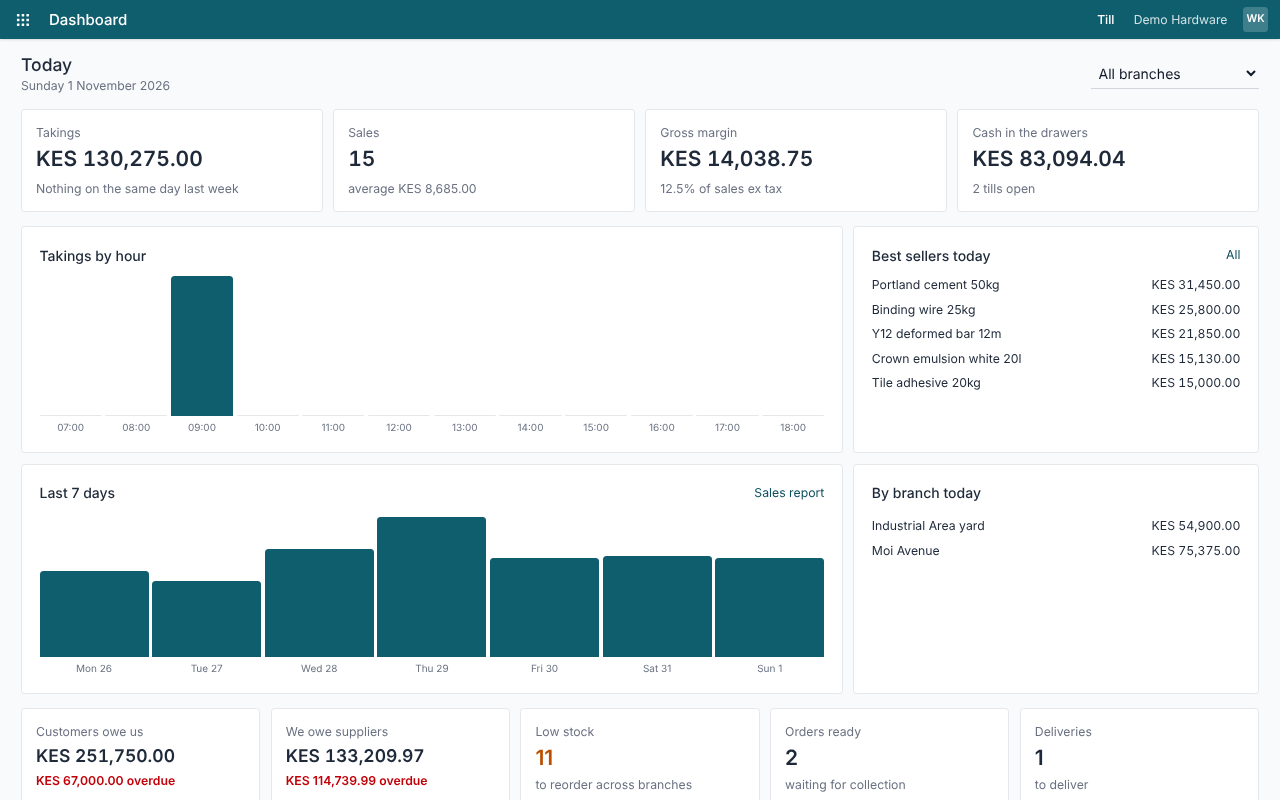
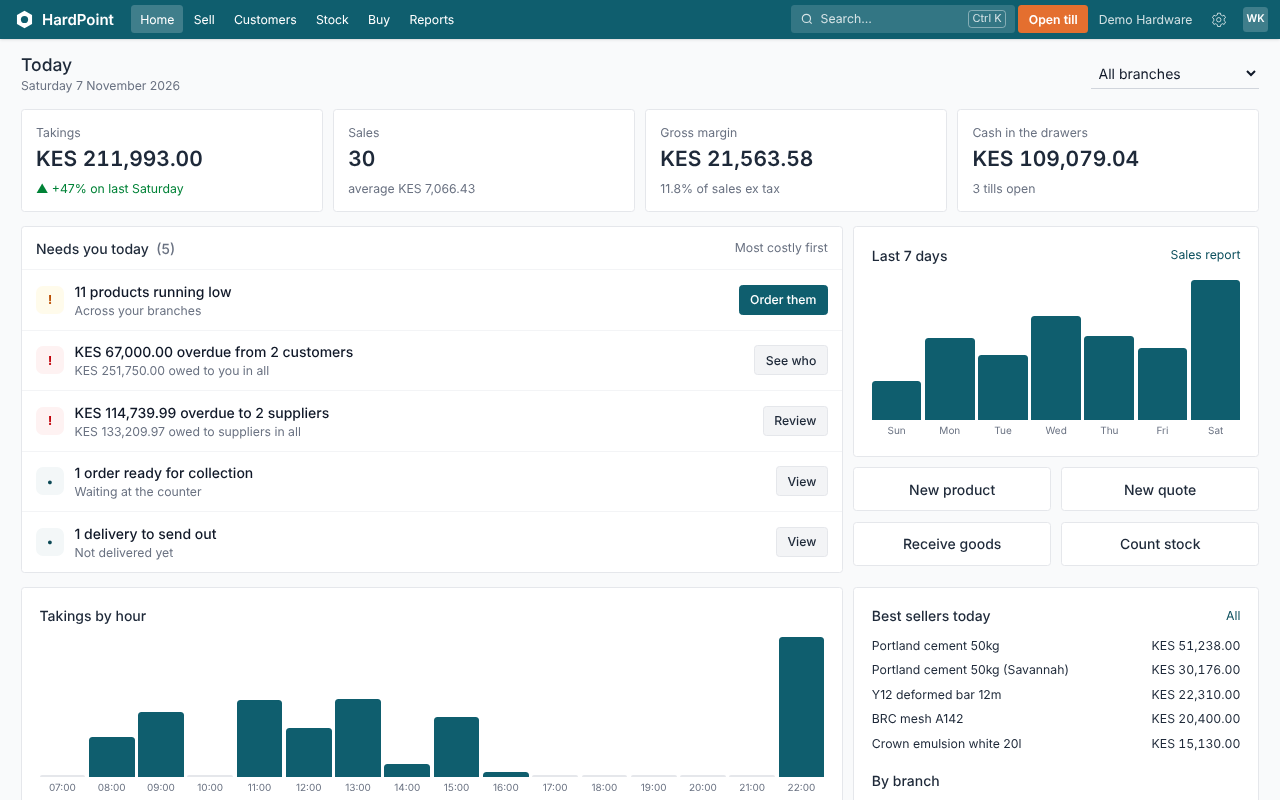
Homepage brought up to date with what HardPoint does now
- What's included: twelve areas instead of eight, adding touch screens and phones, Airtel Money and
  card, shifts and cash, contractors and deliveries, the online store, and promotions, WhatsApp,
  labels, the phone stock app and the QuickBooks export within the others.
- Getting started follows the Set up your shop checklist, and points to guided tours and help.
- Fresh screenshots from the demo shop: the current owner's home (Needs you today) and the till
  asking how many on a tap.
- The trial length comes from Plan::TRIAL rather than being typed in, and plan cards mention
  Airtel Money.
- The help screenshot script confirms the new quantity popup when it fills the till's sale.
- docs/USER_GUIDE.md regenerated for the till tour's new wording.

Claude-Session: https://claude.ai/code/session_012fzfKk8W1bRzqvAso3EDTP

diff --git a/docs/USER_GUIDE.md b/docs/USER_GUIDE.md
@@ -343,7 +343,7 @@ The till is a full-screen page made for a barcode scanner and a busy counter. Op
 
 1. **Scan or search.** Scan a barcode and it's in the sale. No scanner? Type a few letters of the name or SKU and press the product. F2 brings you back here.
 2. **Browse by category.** Quick picks are your best sellers. Press a category to see everything in it, handy on a touch screen.
-3. **Tap to add.** Each button shows the price and how many you have at this branch. Pack sizes, like a box of screws, have their own button underneath.
+3. **Tap to add.** Each button shows the price and how many you have at this branch. Tap one and a box asks how many, with 1 ready to confirm. Pack sizes, like a box of screws, have their own button underneath.
 4. **Who's buying?** Walk-in by default. Press Change to choose a customer, so their prices, credit and KRA PIN go on the receipt.
 5. **The sale.** Change a quantity with − and +, or type it. Discount gives money off one line, and × removes it.
 6. **Totals and discount.** Press Discount for money off the whole sale, as an amount or a percentage. Over your shop's limit, a manager types their approval PIN.
